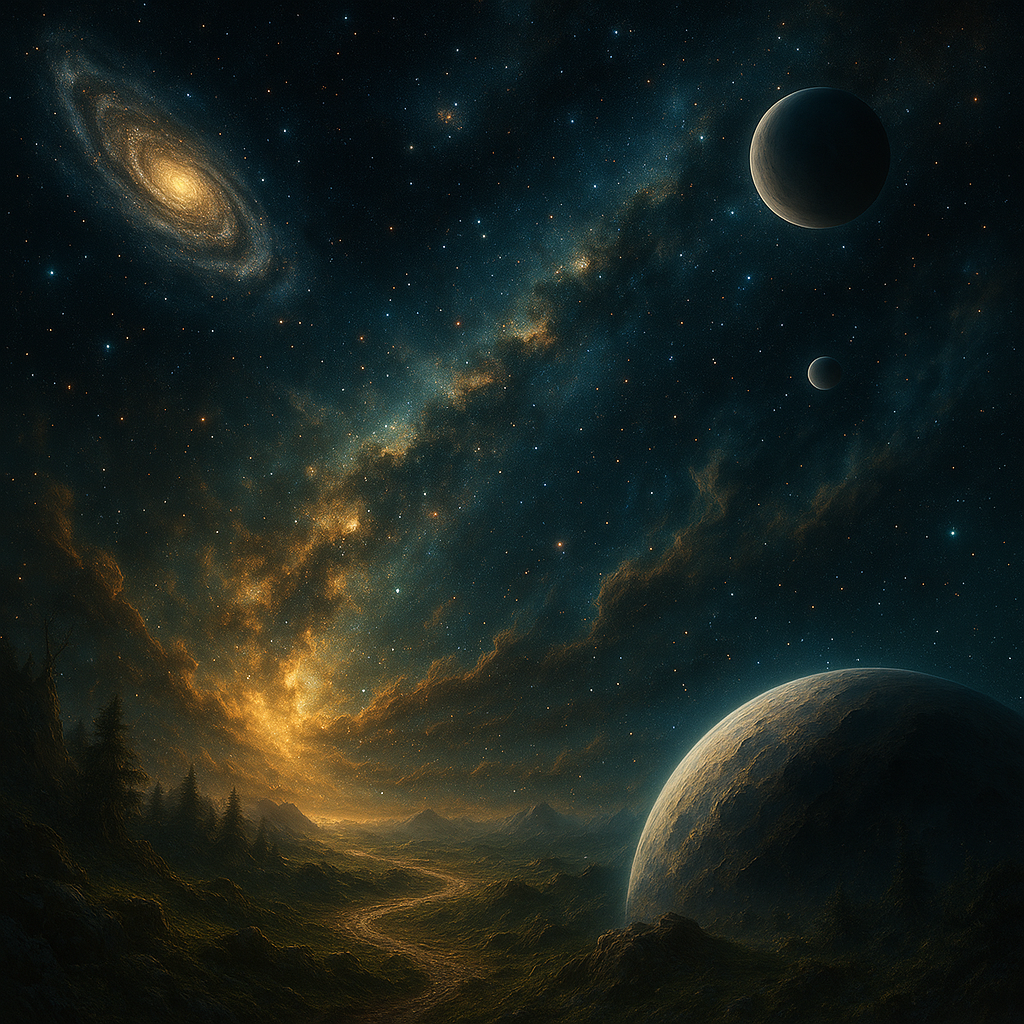
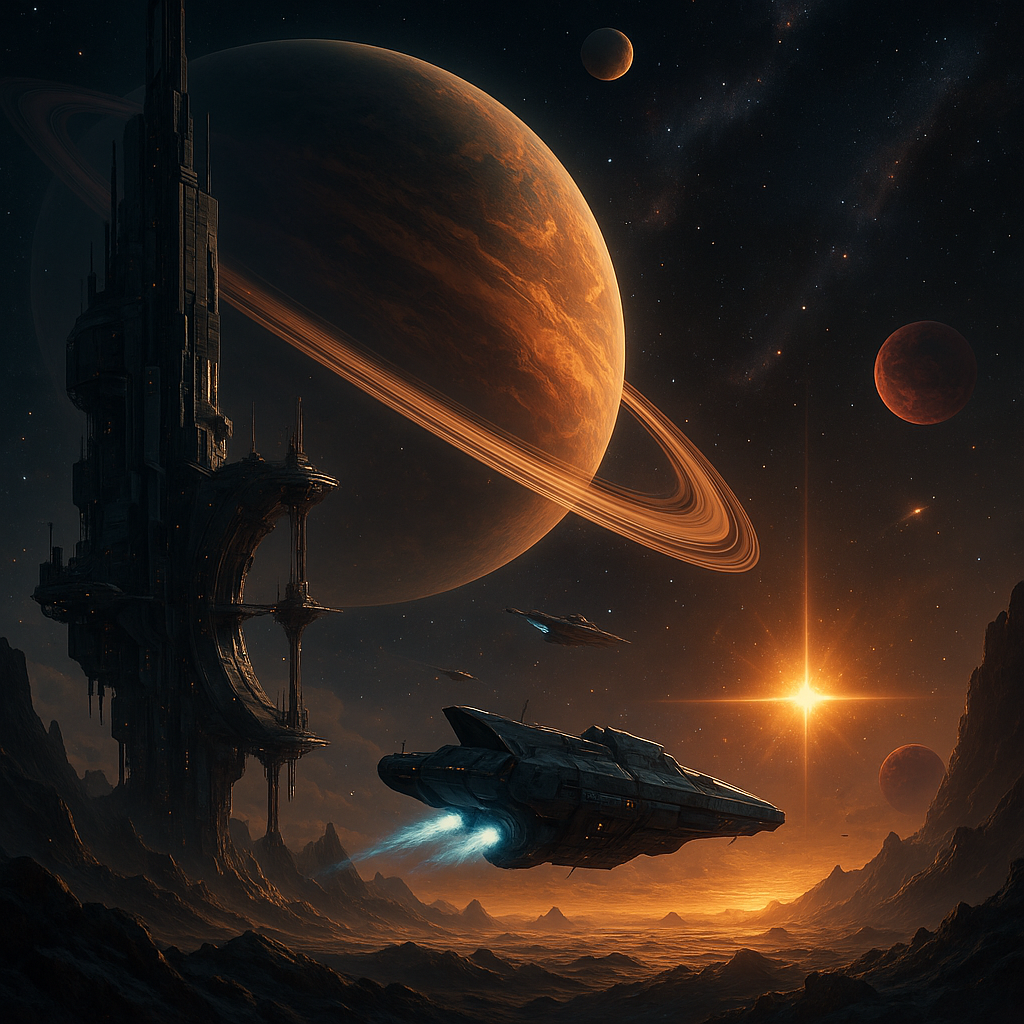
Add new tag images and update media URLs in tag seeder
- Introduced multiple new tag images including "high-fantasy.png", "historical.png", "isolation.png", "outer-space-2.png", "peace.png", "power-of-friendship.png", "secret-identity-2.png", "secret-identity.png", "space-opera.png", "steampunk.png", "technology-vs-nature.png", "tournament-arc.png", "tradition-vs-progress.png", "urban-fantasy.png", and "war.png".
- Updated media URLs and types in the tag seeder to reflect the new images for various tags, enhancing the visual representation of tags in the application.

diff --git a/backend-api/seeders/tagSeeder.js b/backend-api/seeders/tagSeeder.js
@@ -116,7 +116,7 @@ const tagData = [
         broader_description: "Historical fiction immerses readers in past eras, portraying life, culture, and events from different time periods with rich detail and authenticity. These stories may focus on fictional characters or real historical figures, exploring how individuals navigate the social, political, and cultural landscapes of their times.",
         category: "historical_period",
         keywords: "historical, past, old, traditional, classical, heritage",
-        media_url: null,
+        media_url: "/media/tags/historical.jpeg",
         media_type: "image"
     },
     {
@@ -410,7 +410,7 @@ const tagData = [
         broader_description: "Cyberpunk stories are set in dystopian futures where advanced technology and cybernetics coexist with societal collapse and gritty urban life. These narratives explore themes of identity, rebellion, surveillance, and the consequences of unchecked technological growth, often featuring hackers, corporations, and neon-soaked cityscapes.",
         category: "scifi_future",
         keywords: "cyberpunk, dystopian, future, technology, neon, hacker",
-        media_url: "/media/tags/cyberpunk.jpeg",
+        media_url: "/media/tags/cyberpunk.png",
         media_type: "image"
     },
     {
@@ -419,8 +419,8 @@ const tagData = [
         broader_description: "Steampunk reimagines history through the lens of steam-powered technology and Victorian aesthetics. These stories often blend retrofuturism, adventure, and alternative inventions in a world driven by gears, brass, and steam, creating a unique and stylish blend of fantasy and historical fiction.",
         category: "historical_period",
         keywords: "steampunk, steam, alternate history, gears, Victorian, retrofuturism",
-        media_url: null,
-        media_type: "video"
+        media_url: "/media/tags/steampunk.png",
+        media_type: "image"
     },
     {
         title: "Space Opera",
@@ -428,8 +428,8 @@ const tagData = [
         broader_description: "Space Opera is a subgenre of science fiction known for its grand scale, interstellar adventures, and dramatic conflicts. These stories feature heroes, empires, alien civilizations, and space battles, often centered on personal and political drama played out across the galaxy.",
         category: "scifi_future",
         keywords: "space opera, epic, space, adventure, galaxy, starship",
-        media_url: null,
-        media_type: "video"
+        media_url: "/media/tags/space-opera.png",
+        media_type: "image"
     },
     {
         title: "Urban Fantasy",
@@ -437,8 +437,8 @@ const tagData = [
         broader_description: "Urban Fantasy blends magical or supernatural elements with modern-day settings, often taking place in cities where hidden worlds exist alongside everyday life. These stories explore themes like secrecy, duality, and the coexistence of magic and technology in contemporary society.",
         category: "fantasy_magic",
         keywords: "urban fantasy, magic, city, modern, supernatural",
-        media_url: null,
-        media_type: "video"
+        media_url: "/media/tags/urban-fantasy.png",
+        media_type: "image"
     },
     {
         title: "High Fantasy",
@@ -446,8 +446,8 @@ const tagData = [
         broader_description: "High Fantasy features expansive, original worlds filled with magic, mythical creatures, and grand quests. These stories often include chosen heroes, powerful wizards, ancient prophecies, and epic battles between good and evil in richly developed settings.",
         category: "fantasy_magic",
         keywords: "high fantasy, epic, world, magic, mythical, adventure",
-        media_url: null,
-        media_type: "video"
+        media_url: "/media/tags/high-fantasy.png",
+        media_type: "image"
     },
     {
         title: "Magical Girl",
@@ -545,8 +545,8 @@ const tagData = [
         broader_description: "Secret Identity stories feature characters who conceal their true identity, often to protect themselves or others. These narratives explore dual lives, hidden truths, and the tension between who we are and what the world sees.",
         category: "tropes",
         keywords: "secret identity, disguise, hidden, alter ego",
-        media_url: null,
-        media_type: "video"
+        media_url: "/media/tags/secret-identity.png",
+        media_type: "image"
     },
     {
         title: "Amnesia",
@@ -563,8 +563,8 @@ const tagData = [
         broader_description: "Tournament Arc stories feature structured competitions that test characters' skills, strength, or growth. These narratives often serve as exciting set pieces filled with battles, rivalries, and personal development through challenge and conflict.",
         category: "tropes",
         keywords: "tournament, competition, arc, battle, challenge",
-        media_url: null,
-        media_type: "video"
+        media_url: "/media/tags/tournament-arc.png",
+        media_type: "image"
     },
     {
         title: "Power of Friendship",
@@ -572,8 +572,8 @@ const tagData = [
         broader_description: "Power of Friendship stories emphasize the strength and importance of bonds between friends. These narratives show how support, trust, and teamwork can overcome even the greatest obstacles, highlighting emotional resilience and unity.",
         category: "tropes",
         keywords: "friendship, power, support, teamwork, bond",
-        media_url: null,
-        media_type: "video"
+        media_url: "/media/tags/power-of-friendship.png",
+        media_type: "image"
     },
     {
         title: "Prophecy",
@@ -882,8 +882,8 @@ const tagData = [
         "broader_description": "Outer Space settings explore locations beyond our planet, including spaceships, space stations, and alien worlds. These stories often focus on exploration, survival, interstellar conflict, and the vast unknown of the cosmos.",
         "category": "setting",
         "keywords": "outer space, space, stars, planets, sci-fi",
-        "media_url": null,
-        "media_type": "video"
+        "media_url": "/media/tags/outer-space.png",
+        "media_type": "image"
     },
 
     // --- Themes ---
@@ -956,8 +956,8 @@ const tagData = [
         "broader_description": "Stories about Technology vs Nature explore conflicts between human innovation and the natural world, examining themes of environmental impact, balance, and the consequences of technological advancement.",
         "category": "theme",
         "keywords": "technology, nature, progress, environment, clash",
-        "media_url": null,
-        "media_type": "video"
+        "media_url": "/media/tags/technology-vs-nature.png",
+        "media_type": "image"
     },
     {
         "title": "Tradition vs Progress",
@@ -965,8 +965,8 @@ const tagData = [
         "broader_description": "Tradition vs Progress themes explore tensions between established customs and emerging ideas, highlighting conflicts over change, modernization, and cultural identity.",
         "category": "theme",
         "keywords": "tradition, progress, old, new, change",
-        "media_url": null,
-        "media_type": "video"
+        "media_url": "/media/tags/tradition-vs-progress.png",
+        "media_type": "image"
     },
     {
         "title": "Family",
@@ -1001,8 +1001,8 @@ const tagData = [
         "broader_description": "War-themed narratives revolve around conflicts, battles, and struggles often set against a backdrop of larger social or political turmoil, exploring the cost and consequences of fighting.",
         "category": "theme",
         "keywords": "war, conflict, battle, fight, struggle",
-        "media_url": null,
-        "media_type": "video"
+        "media_url": "/media/tags/war.png",
+        "media_type": "image"
     },
     {
         "title": "Peace",
@@ -1010,8 +1010,8 @@ const tagData = [
         "broader_description": "Peace stories focus on the pursuit or restoration of harmony, calm, and resolution, often highlighting nonviolent solutions and reconciliation.",
         "category": "theme",
         "keywords": "peace, harmony, calm, resolution, nonviolence",
-        "media_url": null,
-        "media_type": "video"
+        "media_url": "/media/tags/peace.png",
+        "media_type": "image"
     },
     {
         "title": "Isolation",
@@ -1019,8 +1019,8 @@ const tagData = [
         "broader_description": "Isolation themes explore experiences of solitude, loneliness, or separation, often delving into emotional struggles or self-discovery in solitude.",
         "category": "theme",
         "keywords": "isolation, alone, solitude, separation",
-        "media_url": null,
-        "media_type": "video"
+        "media_url": "/media/tags/isolation.png",
+        "media_type": "image"
     },
     {
         "title": "Discovery",
